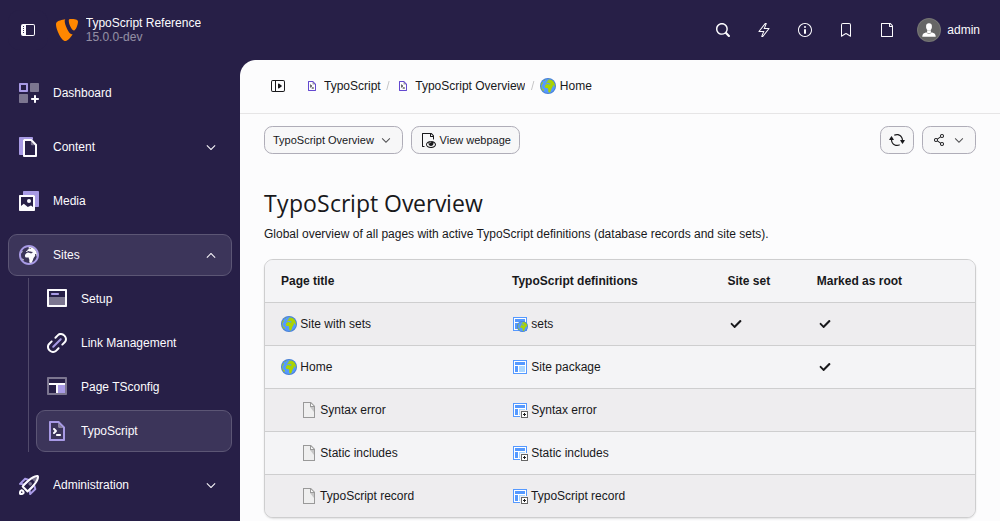
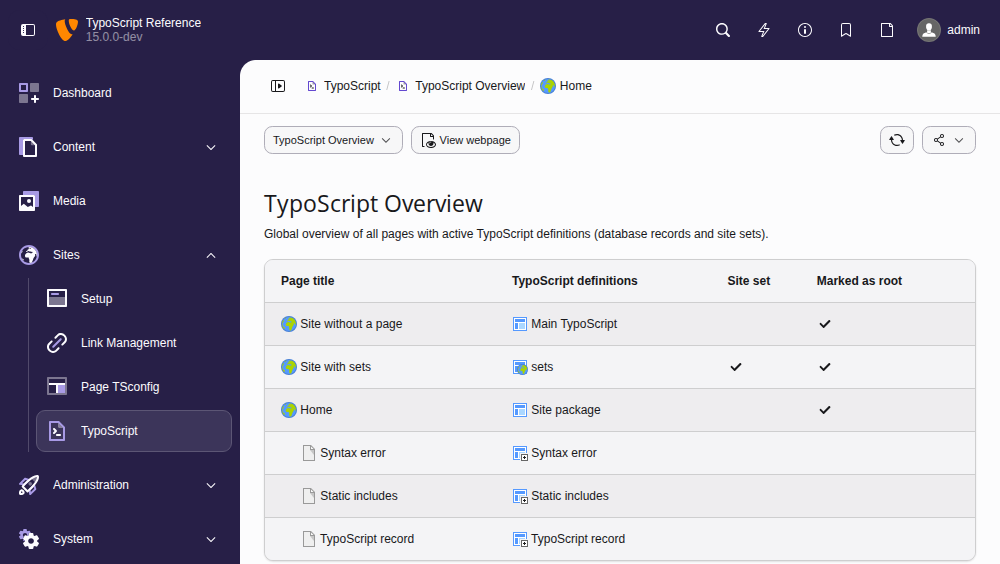
[TASK] Generate the screenshots of the frontend error pages
The troubleshooting section showed the error pages of TYPO3 11 and quoted
their old messages. The screenshot generator now takes them from sites
without TypoScript and without a PAGE object, both in debug mode and as a
visitor sees them, so the section shows the messages that TYPO3 prints
today.

Releases: main, 14.3
Assisted-by: Claude Opus 5.5 <noreply@anthropic.com>

diff --git a/Build/Screenshots/create-records.php b/Build/Screenshots/create-records.php
@@ -212,6 +212,16 @@ $dataHandler = $process(['pages' => [
 ]]);
 $uids['setsRoot'] = $dataHandler->substNEWwithIDs['NEWsetsRoot'];
 
+// Two more sites, whose frontend shows the errors of a missing TypoScript
+// configuration: one has no TypoScript at all, the other one has a
+// TypoScript record without a PAGE object
+$dataHandler = $process(['pages' => [
+    'NEWnoTypoScript' => ['pid' => 0, 'title' => 'Site without TypoScript', 'is_siteroot' => 1, 'hidden' => 0],
+    'NEWnoPage' => ['pid' => 0, 'title' => 'Site without a page', 'is_siteroot' => 1, 'hidden' => 0],
+]]);
+$uids['noTypoScript'] = $dataHandler->substNEWwithIDs['NEWnoTypoScript'];
+$uids['noPage'] = $dataHandler->substNEWwithIDs['NEWnoPage'];
+
 // The TypoScript of the root page, replacing the one of "typo3 setup"
 $connection = GeneralUtility::makeInstance(ConnectionPool::class)->getConnectionForTable('sys_template');
 $connection->delete('sys_template', ['pid' => 1]);
@@ -222,6 +232,14 @@ $process(['sys_template' => ['NEWtemplate' => [
     'clear' => 3,
     'constants' => $fixture('constants.typoscript'),
     'config' => $fixture('setup.typoscript'),
+]]]);
+// The record of the site without a page, created after the one of the root
+// page, so the uids that the screenshots show stay the same
+$process(['sys_template' => ['NEWnoPageRecord' => [
+    'pid' => $uids['noPage'],
+    'title' => 'Main TypoScript',
+    'root' => 1,
+    'clear' => 3,
 ]]]);
 
 // Without site sets and the TypoScript file that "typo3 setup" writes next
@@ -241,6 +259,13 @@ $configuration['rootPageId'] = $uids['setsRoot'];
 $configuration['base'] = 'http://localhost:8080/sets/';
 $configuration['dependencies'] = ['typo3/fluid-styled-content-css'];
 GeneralUtility::makeInstance(SiteWriter::class)->write('sets', $configuration);
+// The sites of the error examples, without sets
+unset($configuration['dependencies']);
+foreach (['noTypoScript' => 'no-typoscript', 'noPage' => 'no-page'] as $root => $identifier) {
+    $configuration['rootPageId'] = $uids[$root];
+    $configuration['base'] = 'http://localhost:8080/' . $identifier . '/';
+    GeneralUtility::makeInstance(SiteWriter::class)->write($identifier, $configuration);
+}
 
 // The uids differ between TYPO3 versions, so screenshots.mjs reads them here
 GeneralUtility::mkdir_deep(Environment::getVarPath());
